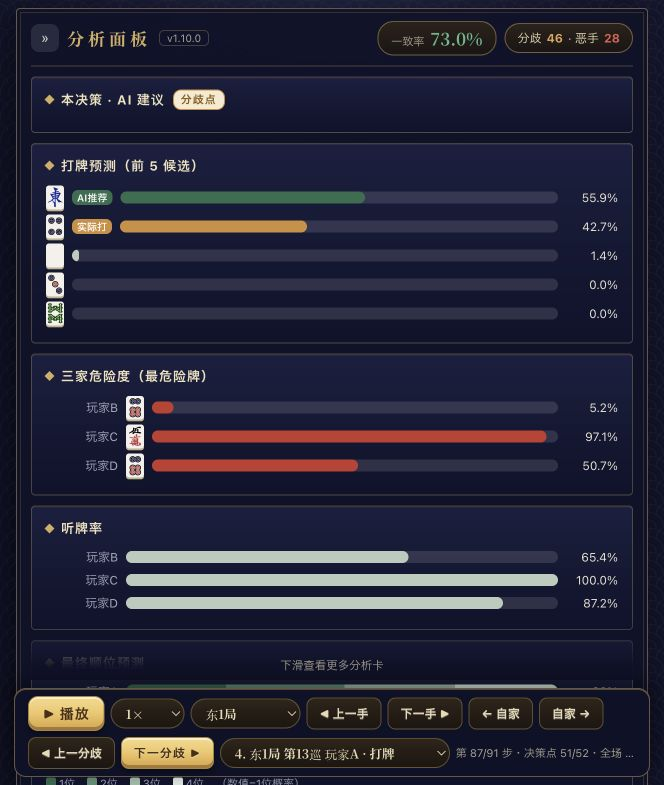
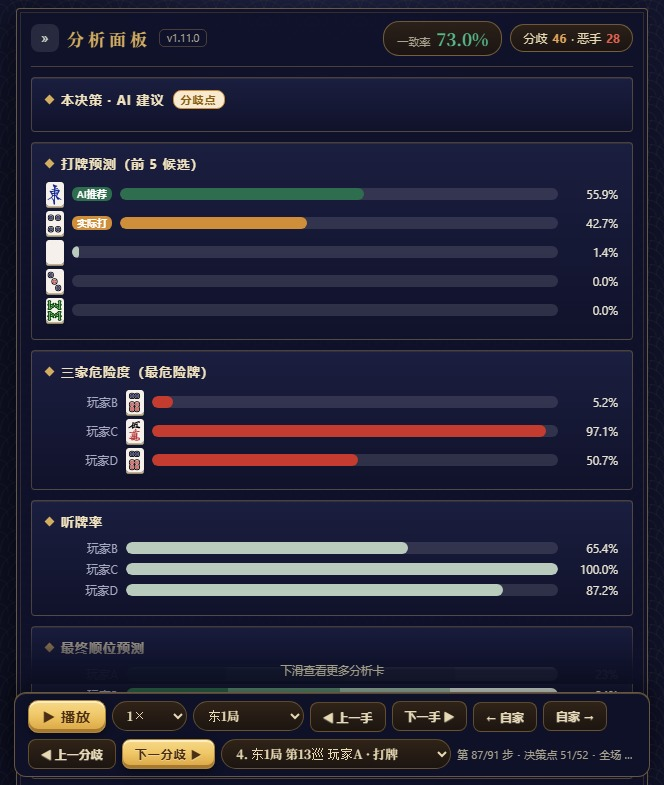
重截两张牌谱截图：段位显示修复后
原图把天凤最高段位「天凤位」印成了「11段」，把「新人」印成「0段」——
那是渲染侧的缺陷，现已在网站上修复。两张图在同一份公开示例牌谱、
同一主视角（起家东）、同一决策点（分歧列表第 4 项，东1局 第13巡）
重新截取，所有数值与原图逐个相同（推荐度 55.9%、一致率 73.0%、
危险度 5.2/97.1/50.7、听牌率 65.4/100.0/87.2），只有段位名与
页面版本号随修复变化。

- docs/images/tingque-replay.jpg：段位牌改为「天凤位 / 新人」
- docs/images/tingque-replay-analysis.jpg：同上，版本号 v1.10.0 → v1.11.0
- docs/screenshots.md：更新两张图的 SHA-256、补注截取日期

另修正本文件中一处自相矛盾的检查清单：正文说明「本次可公开是因为
牌谱本身是公开示例」，清单却写成「公开牌谱与隐藏手牌两条缺一不可」，
照字面执行的话现有截图全部不合格。清单已改为与正文一致：牌谱本身
公开时可只开匿名，其余一切情况必须同时开启隐藏手牌。

tingque-rank-analysis.jpg 与 analyzer.png 未改动，校验值不变。

Changed region(s): [[0.0301, 0.0917, 0.9639, 1.0], [0.5723, 0.0306, 0.9337, 0.0917], [0.0904, 0.0306, 0.3012, 0.0611]]

diff --git a/docs/screenshots.md b/docs/screenshots.md
@@ -1,6 +1,6 @@
 # 截图来源 / 截圖來源 / Screenshot sources
 
-实测与截取日期 / 實測與擷取日期 / Captured: 2026-09-21.
+实测与截取日期 / 實測與擷取日期 / Captured: 2026-09-21（段位分析 / 段位分析 / rank analysis）· 2026-09-22（牌谱复盘两图 / 牌譜複盤兩圖 / the two replay images）.
 
 README中的前三张图来自本次在[TingQue.ai](https://tingque.ai/)实际完成的牌谱解析和段位计算。最后一张是本仓库运行后的本地分析器界面。图片中的百分比对应具体局面。
 
@@ -47,15 +47,15 @@ The website rank calculation uses South 3, zero honba and deposits, scores of 39
 
 官网图片通过实际操作页面后截取，按浏览器返回的原始JPEG字节保存；截图前滚动到对应功能区域。更新时核对页面状态、玩家匿名显示、三版README图注、来源与校验值，再重新打包。
 
-🔴 **换图必查两条，缺一条就不要提交**：① 所用牌谱是否为公开示例牌谱——非公开牌谱一律不可用作对外截图；② **是否已开启隐藏手牌**——只勾「匿名」只替换玩家名，手牌仍然全部可见。另外，不要在本文件或README里登载牌谱编号或原局直链。
+🔴 **换图必查两条，缺一条就不要提交**：① 所用牌谱是否为公开示例牌谱——非公开牌谱一律不可用作对外截图；② **手牌可见性是否已确认**——只勾「匿名」只替换玩家名，手牌仍然全部可见；**仅当牌谱本身已公开时才可以只开匿名**（本仓库现有截图即属此种），其余一切情况必须同时开启隐藏手牌。另外，不要在本文件或README里登载牌谱编号或原局直链。
 
 官網圖片透過實際操作頁面後擷取，按瀏覽器回傳的原始JPEG位元組保存；截圖前捲動至對應功能區域。更新時核對頁面狀態、玩家匿名顯示、三版README圖說、來源與校驗值，再重新打包。
 
-🔴 **換圖必查兩條，缺一條就不要提交**：① 所用牌譜是否為公開範例牌譜——非公開牌譜一律不可用作對外截圖；② **是否已開啟隱藏手牌**——只勾「匿名」只替換玩家名，手牌仍然全部可見。另外，不要在本文件或README裡登載牌譜編號或原局直連。
+🔴 **換圖必查兩條，缺一條就不要提交**：① 所用牌譜是否為公開範例牌譜——非公開牌譜一律不可用作對外截圖；② **手牌可見性是否已確認**——只勾「匿名」只替換玩家名，手牌仍然全部可見；**僅當牌譜本身已公開時才可以只開匿名**（本儲存庫現有截圖即屬此種），其餘一切情況必須同時開啟隱藏手牌。另外，不要在本文件或README裡登載牌譜編號或原局直連。
 
 Website screenshots retain the browser's original JPEG bytes, with the page scrolled to the relevant functional area before capture. When updating them, verify the page state and anonymous labels, synchronize all three README captions and the source/checksum records, then rebuild the release.
 
-🔴 **Two mandatory checks before committing a replacement screenshot:** (1) the replay must be a public sample replay — never use a non-public replay for outward-facing images; (2) **hand concealment must be enabled** — the anonymous option alone only replaces player names, leaving every hand visible. Also, never publish a replay ID or a direct replay link in this file or in any README.
+🔴 **Two mandatory checks before committing a replacement screenshot:** (1) the replay must be a public sample replay — never use a non-public replay for outward-facing images; (2) **hand visibility must be settled** — the anonymous option alone only replaces player names, leaving every hand visible; **anonymity alone is acceptable only when the replay is itself public** (as it is for the images in this repository), and hand concealment must be enabled in every other case. Also, never publish a replay ID or a direct replay link in this file or in any README.
 
 本地截图 / 本機截圖 / Local screenshot:
 
@@ -78,7 +78,7 @@ Remove-Item Env:UPDATE_SCREENSHOTS
 官网实测图片SHA-256 / 官網實測圖片SHA-256 / Live website screenshot SHA-256:
 
 ```text
-0f24a0886849b3ea51412ecdf099f5182bd0ba7159f9e68b4a8b031e749e126e  tingque-replay.jpg
-95e406d0c341a8272b0e99d89e11fef9fa9c0f681f869d10f724325cb556f519  tingque-replay-analysis.jpg
+d999ac3e8bf0e5aa0d82b5ef728e32061fb9a1cfd49152879db1de3cf2d1679b  tingque-replay.jpg
+4f7670c40cceadfe1241bab8e33523a1e111bb736fba8f0d8d498308bf11ed07  tingque-replay-analysis.jpg
 93d5936f81bca60f0a773c5408300240a61477b77b39da2bed73c8fb06f8f0be  tingque-rank-analysis.jpg
 ```
